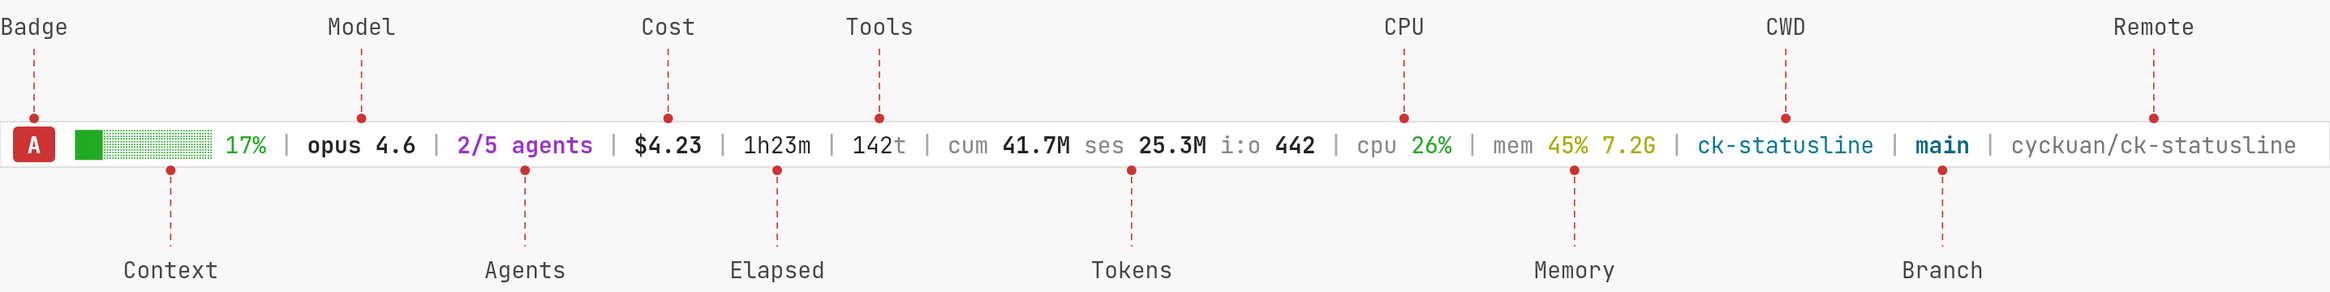
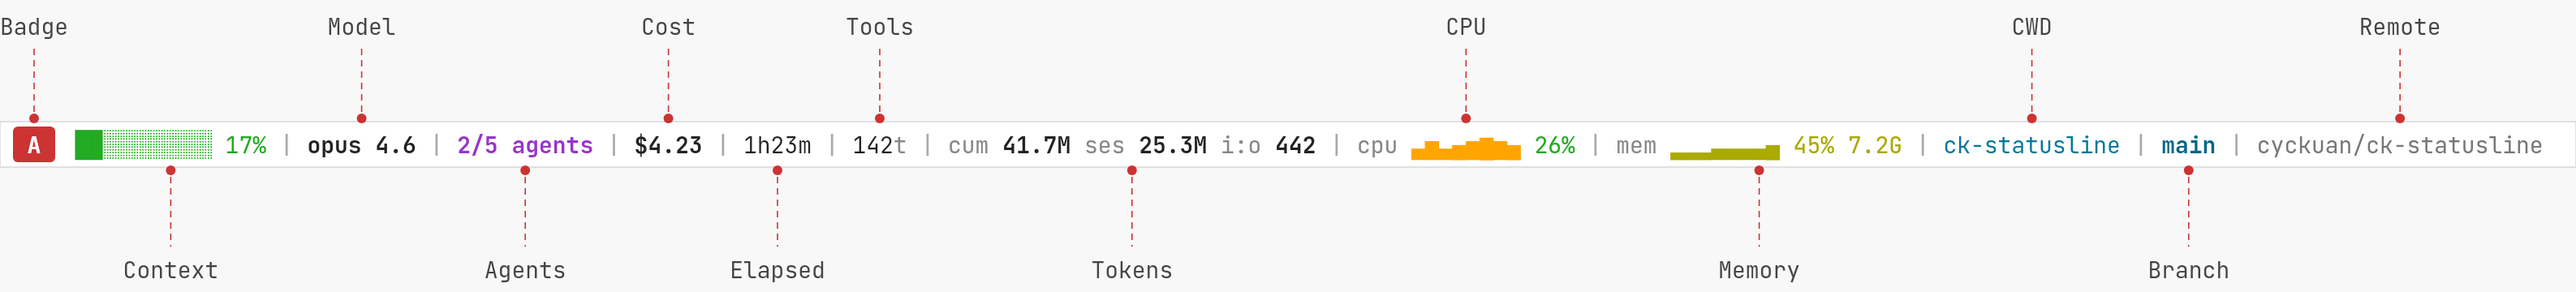
docs: update diagram and element images with sparklines, update README

diff --git a/README.md b/README.md
@@ -107,23 +107,23 @@ Token values are formatted as `k` (thousands) or `M` (millions). Input includes 
 
 ![CPU](assets/el-cpu.png)
 
-Current system CPU utilisation, coloured with traffic-light thresholds. Platform-specific:
+Current system CPU utilisation with an 8-reading sparkline history (`▃▅▃▄▅▆▅▄`) showing the recent trend, coloured with traffic-light thresholds. Platform-specific:
 - **Linux**: sampled over 100ms from `/proc/stat`
 - **macOS**: via `top -l 1`
 - **Windows**: via `wmic cpu get loadpercentage`
 
-**Why:** Claude Code operations (builds, tests, linters) compete for CPU with the rest of your system. Sustained high CPU can slow response times and indicates heavy background work — a signal to wait before launching more parallel agents.
+**Why:** Claude Code operations (builds, tests, linters) compete for CPU with the rest of your system. The sparkline reveals whether high CPU is a spike or sustained — a sustained plateau signals heavy background work and you should wait before launching more parallel agents.
 
 ### Memory
 
 ![Memory](assets/el-memory.png)
 
-System memory usage as percentage and absolute GB used, coloured with traffic-light thresholds. Platform-specific:
+System memory usage as percentage and absolute GB used, with an 8-reading sparkline history showing the trend, coloured with traffic-light thresholds. Platform-specific:
 - **Linux**: `/proc/meminfo` (MemTotal minus MemAvailable)
 - **macOS**: `sysctl hw.memsize` + `vm_stat`
 - **Windows**: `wmic OS get FreePhysicalMemory,TotalVisibleMemorySize`
 
-**Why:** Memory pressure causes swap thrashing which dramatically slows everything. Watching this metric helps you decide whether to close other applications or avoid memory-heavy operations like large builds or running multiple containers alongside Claude Code.
+**Why:** Memory pressure causes swap thrashing which dramatically slows everything. The sparkline shows whether memory is climbing steadily (leak or accumulation) or stable — helping you decide whether to close other applications or avoid memory-heavy operations.
 
 ### Working Directory
 
